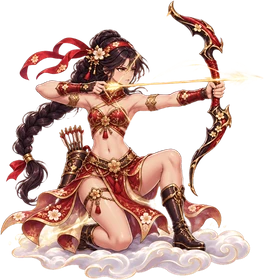
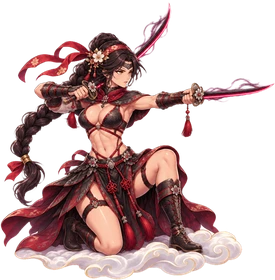
그믐: 기획 19 개정 달래 각성 「그림자 쌍검」(칼바람·칼 던지기·그림자 돌진·표식 폭발·그림자 화살, 기획 세션 그림 aw1·aw1p·dl_sword)
Claude-Session: https://claude.ai/code/session_01X3WCR5Skc58i6ujNZho15h

diff --git a/game/geumeum/dokkaebi-shooter.html b/game/geumeum/dokkaebi-shooter.html
@@ -879,7 +879,7 @@ const FONT = '"Black Han Sans","Apple SD Gothic Neo","Malgun Gothic",sans-serif'
 const IMG = {};
 for (const n of ['hp0', 'hp1', 'hp2n', 'hp2s', 'hc2n', 'hc2s', 'mh0', 'mh1', 'mh2', 'mh3', 'mh4', 'mh5', 'mh6', 'mh7', 'mh8', 'mh9', 'mw_wisp', 'mw_kite', 'mw_drum', 'mw_jar', 'mw_lantern', 'mw_dasher', 'mw_carp', 'mw_fox', 'f3_wisp', 'f3_kite', 'f3_dasher', 'f4_wisp', 'f4_kite', 'f4_dasher', 'f5_wisp', 'f5_kite', 'f5_dasher', 'f6_wisp', 'f6_kite', 'f6_dasher', 'f7_wisp', 'f7_kite', 'f7_dasher', 'f8_wisp', 'f8_kite', 'f8_dasher', 'f9_wisp', 'f9_kite', 'f9_dasher', 'wisp', 'kite', 'drum', 'jar', 'lantern', 'dasher', 'bz0c', 'bz0d', 'bz1a', 'bz8b', 'fg0', 'mini0a', 'mini0b', 'mini0c', 'mid0a', 'mid0b', 'p3', 'cut3x', 'p4', 'cut4x', 'carp', 'mini1a', 'mini1b', 'mini1c', 'mid1a', 'mid1b', 'bz1b', 'fg1', 'ironfx', 'p5', 'cut5x', 'fox', 'mini2a', 'mini2c', 'mid2a', 'boss3', 'bz2b', 'fg3', 'ch3', 'ch5', 'ch6', 'ch7', 'ch8', 'ch9', 'ch10', 'ch11', 'ch12', 'p6','cut6x','p7b','cut7x','p8b','cut8x','p9b','cut9x','p10','cut10x','p11b','cut11x','p12','cut12x','zk3','mini3a','mini3b','mini3c','mid3a','mid3b','bossH3','bz3b','zk4','mini4a','mini4b','mini4c','mid4a','mid4b','bossH4','bz4b','zk5','mini5a','mini5b','mini5c','mid5a','mid5b','bossH5','bz5b','zk6','mini6a','mini6b','mini6c','mid6a','mid6b','bossH6','bz6b','zk7','mini7a','mini7b','mini7c','mid7a','mid7b','bossH7','bz7b','zk8','mini8a','mini8b','mini8c','mid8a','mid8b','bossH8','zk9','mini9a','mini9b','mini9c','mid9a','mid9b','bossH9','bz9b', 'hc0x', 'hp1_o0', 'hc1_o0', 'hc1w', 'forgeAnvil', 'forgeHammer', 'chestC', 'chestG', 'chestE', 'tornado', 'arrowfx', 'hammerfx', 'talisman']) { const im = new Image(); im.src = 'assets/' + n + '.webp'; IMG[n] = im; }
 { const im = new Image(); im.src = 'assets/ch12m.webp'; IMG.ch12 = im; }
-for (const n of ['p13', 'p14', 'p15', 'p16', 'p17', 'p18', 'p19', 'p20', 'p21', 'p22', 'aw0p', 'aw1p', 'aw2p']) { const im = new Image(); im.src = 'assets/' + n + '.webp'; IMG[n] = im; } // 기획 15·17 새 그림도 처음부터 불러 둠
+for (const n of ['p13', 'p14', 'p15', 'p16', 'p17', 'p18', 'p19', 'p20', 'p21', 'p22', 'aw0p', 'aw1p', 'aw2p', 'aw1', 'dl_sword']) { const im = new Image(); im.src = 'assets/' + n + '.webp'; IMG[n] = im; } // 기획 15·17 새 그림도 처음부터 불러 둠
 { const im = new Image(); im.src = 'assets/tower10.webp'; IMG.tower10 = im; } // 층 시작 때 보여 주는 탑 그림 // 여왕의 기: 달 구슬(새 그림)
 for (const n of ['bg0', 'bg1', 'bg2', 'bg3', 'bgS4', 'bgS5', 'bgS6', 'bgS7', 'bgS8', 'bgS10', 'bg0h', 'bg1h', 'bg2h', 'bg3h', 'bgS4h', 'bgS5h', 'bgS6h', 'bgS7h', 'bgS8h', 'bgS10h']) { const im = new Image(); im.src = 'assets/' + n + '.jpg'; IMG[n] = im; }
 const ok = im => im && im.complete && im.naturalWidth > 0;
@@ -1982,7 +1982,7 @@ function updatePlayer(dt) {
   }
   let dx = keys.right - keys.left, dy = keys.down - keys.up; if (G.charm > 0) { dx = -dx; dy = -dy; }
   if (dx && dy) { dx *= 0.7071; dy *= 0.7071; }
-  const sp = CH[P.ch].speed * (1 + eqStat(P.ch).spd / 100) * (keys.charge ? 0.7 : 1) * (G.ride ? BAL17.rideSpd : 1) * (G.pslow > 0 ? 0.6 : 1); // 기를 모으는 동안은 70% 빠르기 P.x += dx * sp * dt; P.y += dy * sp * dt;
+  const sp = CH[P.ch].speed * (1 + eqStat(P.ch).spd / 100) * (keys.charge ? 0.7 : 1) * (G.ride ? BAL17.rideSpd : 1) * (G.pslow > 0 ? 0.6 : 1) * (G.awake > 0 && P.ch === 1 ? AWK_DL.speedK : 1); // 기를 모으는 동안은 70% 빠르기 P.x += dx * sp * dt; P.y += dy * sp * dt;
   if (G.wind > 0) { P.x -= (G.wind > 100 ? 30 : 52) * dt; if (Math.random() < 0.6) parts.push({ x: W + 4, y: rnd(10, GY), vx: -rnd(320, 460), vy: rnd(-10, 10), life: 1.6, max: 1.6, col: 'rgba(230,240,255,.7)', r: 1.4 }); } // 맞바람
   if (G.cur > 0) P.y += G.curV * Math.min(1, G.cur) * dt; // 해류
   P.x = Math.max(32, Math.min(W - 24, P.x)); P.y = Math.max(26, Math.min(GY - 20, P.y));
@@ -3427,7 +3427,7 @@ $('btnRestYk').addEventListener('click', () => openYk());
 /* ---------- 기획 16-4: 각성 연출 — 멈춤 → 각성 일러스트 전신 → 얼굴·무기 쪽으로 천천히 확대 → 대사 띠 → 각성 8초 ---------- */
 const AWK = { dur: 1.2, dark: 0.15, inT: 0.2, zoom: 1.0, zoomCh: {}, /* 기획 17: 확대 없앰, 화면 가득 1.2초 */ img: { 0: 'aw0', 1: 'aw1', 2: 'aw2' },
   focus: { 0: [0.62, 0.18], 1: [0.76, 0.24], 2: [0.62, 0.13] }, // 확대 중심(그림 비율): 얼굴과 무기·손의 빛 사이. 15세 기준 — 몸 쪽으로는 확대하지 않음
-  line: ['바람아, 달빛을 실어 와라!', '이 화살은 달을 꿰뚫는다!', '은하수야, 나를 감싸 줘!', '탈 속 도깨비불이 춤춘다!', '쇠도 먹고 달도 먹는다!', '아홉 꼬리에 달빛이 깃든다!', '장승의 이름으로 막아 서라!', '눈보라야, 모두 얼어붙어라!', '천 년 묵은 비늘이 깨어난다!', '용궁의 물결이여, 일어나라!', '쇠망치에 달을 벼린다!', '어둠이 나의 그림자다!', '뚝딱! 달빛이 쏟아진다!'] };
+  line: ['바람아, 달빛을 실어 와라!', '활은 접어 둘게. 이제 베러 간다!', '은하수야, 나를 감싸 줘!', '탈 속 도깨비불이 춤춘다!', '쇠도 먹고 달도 먹는다!', '아홉 꼬리에 달빛이 깃든다!', '장승의 이름으로 막아 서라!', '눈보라야, 모두 얼어붙어라!', '천 년 묵은 비늘이 깨어난다!', '용궁의 물결이여, 일어나라!', '쇠망치에 달을 벼린다!', '어둠이 나의 그림자다!', '뚝딱! 달빛이 쏟아진다!'] };
 for (const k of Object.values(AWK.img)) needImg(k);
 { const a = awakeStart; awakeStart = function () { if (!awakeReady()) return; a(); if (G.awake > 0) { const ch = P.ch; G.flash = 0; G.awkCut = { t: 0, ch }; needImg(AWK.img[ch] || look(ch).cut); SAVE.awkSeen = SAVE.awkSeen || {}; if (!SAVE.awkSeen[ch]) { SAVE.awkSeen[ch] = 1; saveGame(); } } }; }
 function drawAwkCut() { const q = G.awkCut; if (!q) return; const t = q.t, D = AWK.dur, ch = q.ch, key = AWK.img[ch], im = IMG[key || look(ch).cut], wide = !!key;
@@ -3439,7 +3439,7 @@ function drawAwkCut() { const q = G.awkCut; if (!q) return; const t = q.t, D = A
     ctx.globalAlpha = fa; { const br = 1 + 0.012 * Math.sin(t * 7); ctx.drawImage(im, dx - im.width * s * (br - 1) / 2, dy - im.height * s * (br - 1) / 2, im.width * s * br, im.height * s * br); } ctx.globalCompositeOperation = 'lighter'; ctx.globalAlpha = fa * 0.35; glow('gold', W * 0.5, H * 0.3, 260 + 30 * Math.sin(t * 5), 0.5); ctx.globalCompositeOperation = 'source-over'; ctx.globalAlpha = fa;
     ctx.globalCompositeOperation = 'lighter'; for (let i = 0; i < 26; i++) { const px = (i * 97 + t * 60 * (1 + i % 3)) % W, py = H - ((i * 53 + t * 140 * (1 + i % 4)) % H); ctx.globalAlpha = fa * (0.3 + 0.5 * ((i * 7) % 5) / 5); glow('gold', px, py, 6 + (i % 4) * 3, 0.8); } ctx.globalCompositeOperation = 'source-over';
     const ba = Math.min(1, (t - 0.5) / 0.2) * Math.min(1, (D - t) / 0.2); if (ba > 0) { ctx.globalAlpha = ba; const g = ctx.createLinearGradient(0, H - 92, 0, H); g.addColorStop(0, 'rgba(6,8,20,0)'); g.addColorStop(0.35, 'rgba(6,8,20,.82)'); g.addColorStop(1, 'rgba(6,8,20,.92)'); ctx.fillStyle = g; ctx.fillRect(0, H - 92, W, 92);
-      ctx.textAlign = 'center'; ctx.font = '30px ' + FONT; ctx.lineWidth = 5; ctx.strokeStyle = 'rgba(0,0,0,.8)'; ctx.strokeText('달빛 각성', W / 2, H - 46); ctx.fillStyle = '#ffe9a0'; ctx.fillText('달빛 각성', W / 2, H - 46);
+      ctx.textAlign = 'center'; ctx.font = '30px ' + FONT; ctx.lineWidth = 5; ctx.strokeStyle = 'rgba(0,0,0,.8)'; { const tt = '달빛 각성' + (ch === 1 ? ' · 그림자 쌍검' : ''); ctx.strokeText(tt, W / 2, H - 46); ctx.fillStyle = ch === 1 ? '#ff5a6a' : '#ffe9a0'; ctx.fillText(tt, W / 2, H - 46); }
       ctx.font = '15px ' + FONT; ctx.fillStyle = '#f4f0e6'; ctx.fillText(CH[ch].name + ' 「' + (AWK.line[ch] || '달이여, 힘을!') + '」', W / 2, H - 18); } }
   ctx.restore(); }
 /* ---------- 기획 17-6: 검토판 개발 도구(일시정지 화면, 출시판에는 없음) ---------- */
@@ -3703,6 +3703,41 @@ function drawSkCut() { const q = G.skCut; if (!q) return; q.t += 1 / 60; const D
   if (ok(im)) { const s = 190 / im.height * 1.35; ctx.drawImage(im, 150 - im.width * s / 2 + (CH[q.ch].flip ? 0 : 0), GY - 175, im.width * s, im.height * s); } ctx.restore();
   ctx.strokeStyle = col; ctx.lineWidth = 3; ctx.stroke(); ctx.font = '22px ' + FONT; ctx.textAlign = 'left'; ctx.lineWidth = 5; ctx.strokeStyle = 'rgba(0,0,0,.85)'; const nm = SKNAME[q.ch] || '스킬'; ctx.strokeText(nm, 14, GY - 30); ctx.fillStyle = col; ctx.fillText(nm, 14, GY - 30); ctx.restore(); }
 { const a = drawAwkCut; drawAwkCut = function () { a(); if (G.mode === 'play') drawSkCut(); }; }
+/* ---------- 기획 19(개정): 달래 각성 「그림자 쌍검」 — 진홍 칼바람·칼 던지기(부메랑)·그림자 돌진·표식 터뜨리기·끝에 그림자 화살 ---------- */
+const AWK_DL = { waveGap: 0.3, waveDmg: 3, waveSp: 620, swordGap: 1.5, sword: 5, swordR: 30, reach: 0.5, dashTime: 0.35, dashBack: 0.25, dashCdK: 0.6, dashDmg: 18, dashScar: 9, markBurst: 7.5, markRadius: 60, markTime: 0.3, markTimeMax: 2, finalArrow: 24, speedK: 1.2, splitT: 0.3, col: '#ff3a5a' };
+const dlOn = () => G.awake > 0 && P.ch === 1 && G.mode === 'play';
+// 각성 중 달래는 평소 탄 대신 칼바람(자동)
+{ const a = fire; fire = function () { const n0 = shots.length; a(); if (!dlOn()) return; shots.splice(n0); }; }
+function dlUpd(dt) { const D = G.dl = G.dl || { wave: 0, sword: 0, side: 1, ext: 0, sw: [], lunge: 0 }; if (D.split > 0) D.split -= dt; if (D.lunge > 0) D.lunge -= dt;
+  if (dlOn()) { const firing = keys.fire || touch.down || touch.auto;
+    if (firing && (D.wave -= dt) <= 0) { D.wave = AWK_DL.waveGap; D.side = -D.side; D.lunge = 0.12; withSrc('awk', () => ps(P.x + 26, P.y + D.side * 10, AWK_DL.waveSp, -D.side * 90, 12, AWK_DL.waveDmg, 20, { kc: 1, dlw: 1, pierce: 1, cd: 0.25, hit: new Map(), rot: D.side })); tone(880 + D.side * 120, 0.05, 'sawtooth', 0.025, -300); }
+    if ((D.sword -= dt) <= 0) { D.sword = AWK_DL.swordGap; D.sw.push({ x: P.x + 20, y: P.y, t: 0, back: false, hit: new Map(), a: 0 }); } }
+  for (const s of D.sw) { s.t += dt; s.a += dt * 18; const tx = W * AWK_DL.reach + 120; if (!s.back) { s.x += 560 * dt; if (s.x >= tx) { s.back = true; s.hit = new Map(); } } else { const dx = P.x - s.x, dy = P.y - s.y, dd = Math.hypot(dx, dy) || 1; s.x += dx / dd * 620 * dt; s.y += dy / dd * 620 * dt; if (dd < 24) s.done = true; }
+    withSrc('awk', () => { for (const e of enemies) if (!e.dead && !e.inv && Math.hypot(e.x - s.x, e.y - s.y) < AWK_DL.swordR + e.r * 0.6 && !s.hit.has(e)) { s.hit.set(e, 1); hitEl(e, AWK_DL.sword, null, { dlsw: 1, heavy: 1 }); burst(e.x, e.y, 6, AWK_DL.col, 160); } }); if (s.t > 4) s.done = true; }
+  D.sw = D.sw.filter(s => !s.done);
+  const ds = D.dash; if (ds) { ds.t += dt; if (ds.t < AWK_DL.dashTime) { P.x = ds.x0 + (W - 50 - ds.x0) * (ds.t / AWK_DL.dashTime); P.inv = Math.max(P.inv, 0.2); ds.trail.push({ x: P.x, y: P.y }); bullets = bullets.filter(b => !(Math.abs(b.y - ds.y) < 40 && b.x > ds.x0 && b.x < P.x + 30)); }
+    else if (ds.t < AWK_DL.dashTime + AWK_DL.dashBack) P.x = W - 50 + (ds.x0 - (W - 50)) * ((ds.t - AWK_DL.dashTime) / AWK_DL.dashBack);
+    if (!ds.scar && ds.t > 0.3 + AWK_DL.dashTime * 0.5) { ds.scar = 1; withSrc('sk', () => { for (const e of inFront(ds.x0, W + 20, ds.y, 44)) hitEl(e, AWK_DL.dashScar, null, { dlsw: 1, heavy: 1 }); }); G.shake = Math.max(G.shake, 0.3); }
+    if (ds.t > 0.9) D.dash = null; } }
+function dlMark(e) { const D = G.dl; if (!D) return; if (e.st) delete e.st.mark; ring(e.x, e.y, AWK_DL.markRadius, AWK_DL.col, 0.35); burst(e.x, e.y, 18, AWK_DL.col, 220); withSrc('awk', () => { for (const o of enemies) if (!o.dead && Math.hypot(o.x - e.x, o.y - e.y) < AWK_DL.markRadius + o.r * 0.5) subDmg(o, AWK_DL.markBurst); });
+  if (D.ext < AWK_DL.markTimeMax) { const add = Math.min(AWK_DL.markTime, AWK_DL.markTimeMax - D.ext); D.ext += add; G.awake += add; float('+' + add.toFixed(1) + '초', P.x, P.y - 60, AWK_DL.col); } }
+{ const a = damage; damage = function (e, d) { const o = G.hitO, mk = dlOn() && o && (o.dlw || o.dlsw) && e.st && e.st.mark > 0 && !e.dead; a(e, d); if (mk) dlMark(e); }; }
+// 스킬: 그림자 돌진(각성 중 달래)
+{ const a = charSkill; charSkill = function (ch) { if (!(ch === 1 && dlOn())) return a(ch); const D = G.dl, x0 = P.x, y = P.y; D.dash = { t: 0, x0, y, trail: [] }; G.hstop = Math.max(G.hstop || 0, 0.04); P.cd.sk *= AWK_DL.dashCdK; P.cdMax.sk = P.cd.sk; float('그림자 돌진', x0, y - 50, AWK_DL.col);
+  withSrc('sk', () => { for (const e of inFront(x0, W + 20, y, 44)) hitEl(e, AWK_DL.dashDmg, null, { dlsw: 1, heavy: 1, pen: 1 }); }); tone(220, 0.25, 'sawtooth', 0.08, 400); noise(0.25, 0.12, { f: 3000 }); }; }
+// 각성 시작·끝
+{ const a = awakeStart; awakeStart = function () { const was = G.awake > 0; a(); if (!was && G.awake > 0 && P.ch === 1) { G.dl = { wave: 0, sword: 0.6, side: 1, ext: 0, sw: [], lunge: 0, split: AWK.dur + AWK_DL.splitT }; } }; }
+{ const a = awakeUpd; awakeUpd = function (dt) { const was = G.awake > 0 && P.ch === 1; a(dt); if (G.mode === 'play') dlUpd(dt); if (was && !(G.awake > 0)) dlEnd(); }; }
+function dlEnd() { const D = G.dl; if (!D) return; const y = P.y; D.sw = []; fx2({ k: 'hline', y, d: 0.45, col: '#ff3a5a' }); G.shake = 0.5; G.flash = Math.max(G.flash, 0.3); banner('…다시, 활로.', '', 1);
+  withSrc('awk', () => { for (const e of inFront(P.x, W + 20, y, 40)) hitEl(e, AWK_DL.finalArrow, 'mark', { pen: 1 }); for (const e of enemies) if (!e.dead && e.st && e.st.mark > 0) dlMark(e); }); tone(392, 0.4, 'triangle', 0.08, 200); }
+// 그리기: 칼바람(진홍 반달), 칼 회전, 돌진 잔상, 갈라지는 0.3초, 벨 때 앞으로 튀어나감
+{ const a = drawShot; drawShot = function (s) { if (!s.dlw) return a(s); ctx.save(); ctx.translate(s.x, s.y); ctx.rotate(Math.atan2(s.vy, s.vx)); ctx.globalCompositeOperation = 'lighter'; ctx.strokeStyle = 'rgba(255,60,90,.9)'; ctx.lineWidth = 5; ctx.beginPath(); ctx.arc(-8, 0, 18, -1.2, 1.2); ctx.stroke(); ctx.strokeStyle = 'rgba(255,200,210,.9)'; ctx.lineWidth = 2; ctx.beginPath(); ctx.arc(-6, 0, 17, -1.0, 1.0); ctx.stroke(); ctx.restore(); }; }
+function drawDl() { const D = G.dl; if (!D || G.mode !== 'play') return; const im = IMG.dl_sword;
+  for (const s of D.sw) { ctx.save(); ctx.translate(s.x, s.y); ctx.rotate(s.a); ctx.globalCompositeOperation = 'lighter'; glow('red', 0, 0, 30, 0.5); ctx.globalCompositeOperation = 'source-over'; if (ok(im)) ctx.drawImage(im, -36, -11.5, 72, 23); ctx.restore(); }
+  const ds = D.dash; if (ds) { const tr = ds.trail; for (let i = 0; i < 3; i++) { const q = tr[Math.floor(tr.length * (i + 1) / 4)]; if (q) spr(AWK2.spr[1], q.x, q.y, CH[1].h * SZ.p * FUN2.awakeScale, { add: 1, alpha: 0.25 }); } if (!ds.scar && ds.t > AWK_DL.dashTime) { ctx.save(); ctx.strokeStyle = 'rgba(255,40,70,.8)'; ctx.lineWidth = 3; ctx.beginPath(); ctx.moveTo(ds.x0, ds.y - 10); ctx.lineTo(W, ds.y + 10); ctx.moveTo(ds.x0, ds.y + 10); ctx.lineTo(W, ds.y - 10); ctx.stroke(); ctx.restore(); } }
+  if (D.split > 0 && D.split < AWK_DL.splitT) { const k = 1 - D.split / AWK_DL.splitT; ctx.save(); ctx.globalCompositeOperation = 'lighter'; glow('red', P.x + 20, P.y, 30 + 60 * k, 1 - k); ctx.restore(); if (ok(im)) for (const sd of [-1, 1]) { ctx.save(); ctx.translate(P.x + 20 + 40 * k, P.y + sd * 40 * k); ctx.rotate(sd * (0.6 + k * 4)); ctx.globalAlpha = 1 - k * 0.5; ctx.drawImage(im, -30, -10, 60, 20); ctx.restore(); } } }
+{ const a = drawWpFx; drawWpFx = function () { a(); drawDl(); }; }
+{ const a = drawAwakeP; drawAwakeP = function () { const D = G.dl; if (P.ch === 1 && D && D.lunge > 0) { ctx.save(); const k = D.lunge / 0.12; ctx.translate(P.x + 8 * k, P.y); ctx.rotate(0.06 * k); ctx.translate(-P.x, -P.y); a(); ctx.restore(); } else a(); }; }
 /* ---------- 그믐의 맹세 (기획 8의 3): 스스로 고르는 어려움. 일반 층과 그믐의 탑 모두에 걸린다. 첫 결말 뒤에 열린다 ---------- */
 const OATHS = [ // [id, 이름, 최대 단계, 단계당 점수, 효과]
   ['hp', '단단한 요괴', 3, 1, '적 체력 +20%씩'],

diff --git a/game/geumeum/README.md b/game/geumeum/README.md
@@ -242,6 +242,13 @@
 - 새 캐릭터 게임 그림(p13~p22)·각성 모습(aw0p~aw2p)은 처음부터 미리 불러옴(전에는 동료로 두면 협력을 쓰기 전까지 안 보였음). 출격할 때 조종·동료 그림도 한 번 더 불러옴
 - 캐릭터 스킬을 쓰면 왼쪽 아래에 일러스트 띠 컷인 0.5초 + 스킬 이름(게임은 안 멈춤, 같은 캐릭터가 10초 안에 다시 쓰면 생략, `SKCUT`)
 
+## 달래 각성 「그림자 쌍검」 (기획 19 개정)
+- 수치 `AWK_DL`. 각성 순간 일러스트 `aw1`(정면 쌍검) + 「달빛 각성 · 그림자 쌍검」, 각성 중 게임 그림 `aw1p`(검정·진홍 쌍검), 칼 탄 `dl_sword` (모두 미리 불러옴)
+- 각성 중 달래(조종): 평소 탄 대신 진홍 반달 칼바람 0.3초마다(위아래 번갈아 X자, 꿰뚫음, 피해 3) + 1.5초마다 칼 던지기(화면 가운데까지 돌며 갔다가 돌아옴, 갈 때·올 때 한 번씩 피해 5). 벨 때 앞으로 살짝 튀어나가며 기울어짐, 이동 1.2배
+- 캐릭터 스킬 = 그림자 돌진(0.35초에 화면 끝까지, 무적, 그 줄 피해 18 + 적 탄 지움, 0.3초 뒤 베기 자국 2타 9, 잔상 3겹), 쿨 60%
+- 칼바람·칼이 표식 찍힌 적에 닿으면 폭발(반지름 60, 7.5) + 각성 +0.3초(최대 +2초)
+- 각성 직후 0.3초: 활 자리에서 칼 두 자루가 갈라져 나옴. 끝: 「…다시, 활로.」 그림자 화살 한 줄(24, 표식 모두 터뜨림)
+
 ## 짝 맞추기 (무한의 탑 대신)
 - 장터 오락실의 첫 오락기 「도깨비 짝 맞추기」(2층을 깨면 열림). 카드 두 장을 뒤집어 같은 캐릭터 찾기, 1단계 12장·2단계 16장·3단계 24장
 - 별: 뒤집기 횟수(짝 수+2 이하 셋, 짝 수×1.6 이하 둘). 보상: 깰 때마다 골드(하루 5판), 단계마다 처음 깨면 달조각 10·15·20
